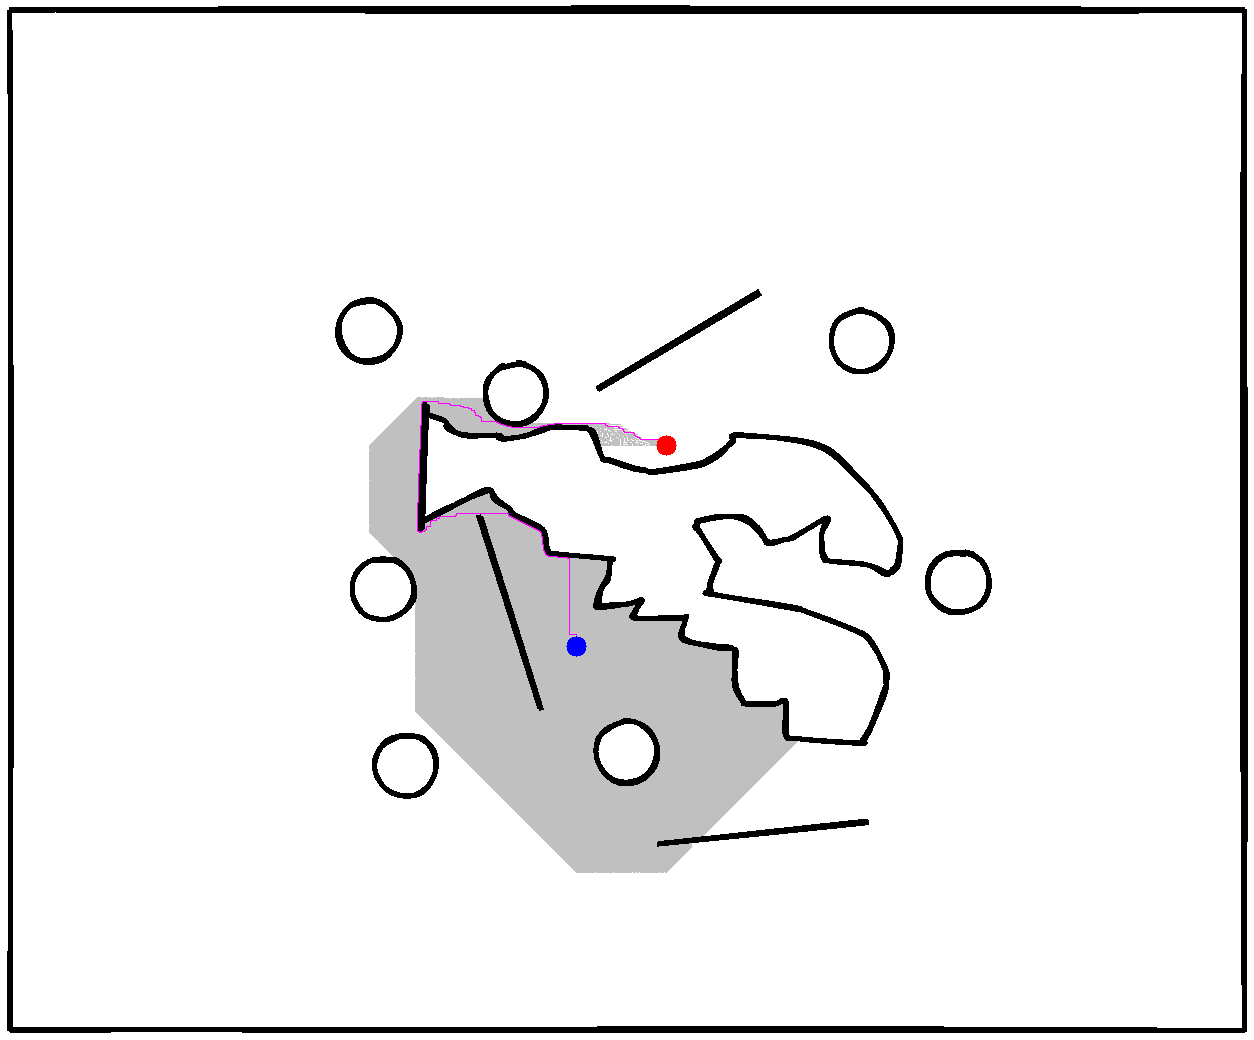
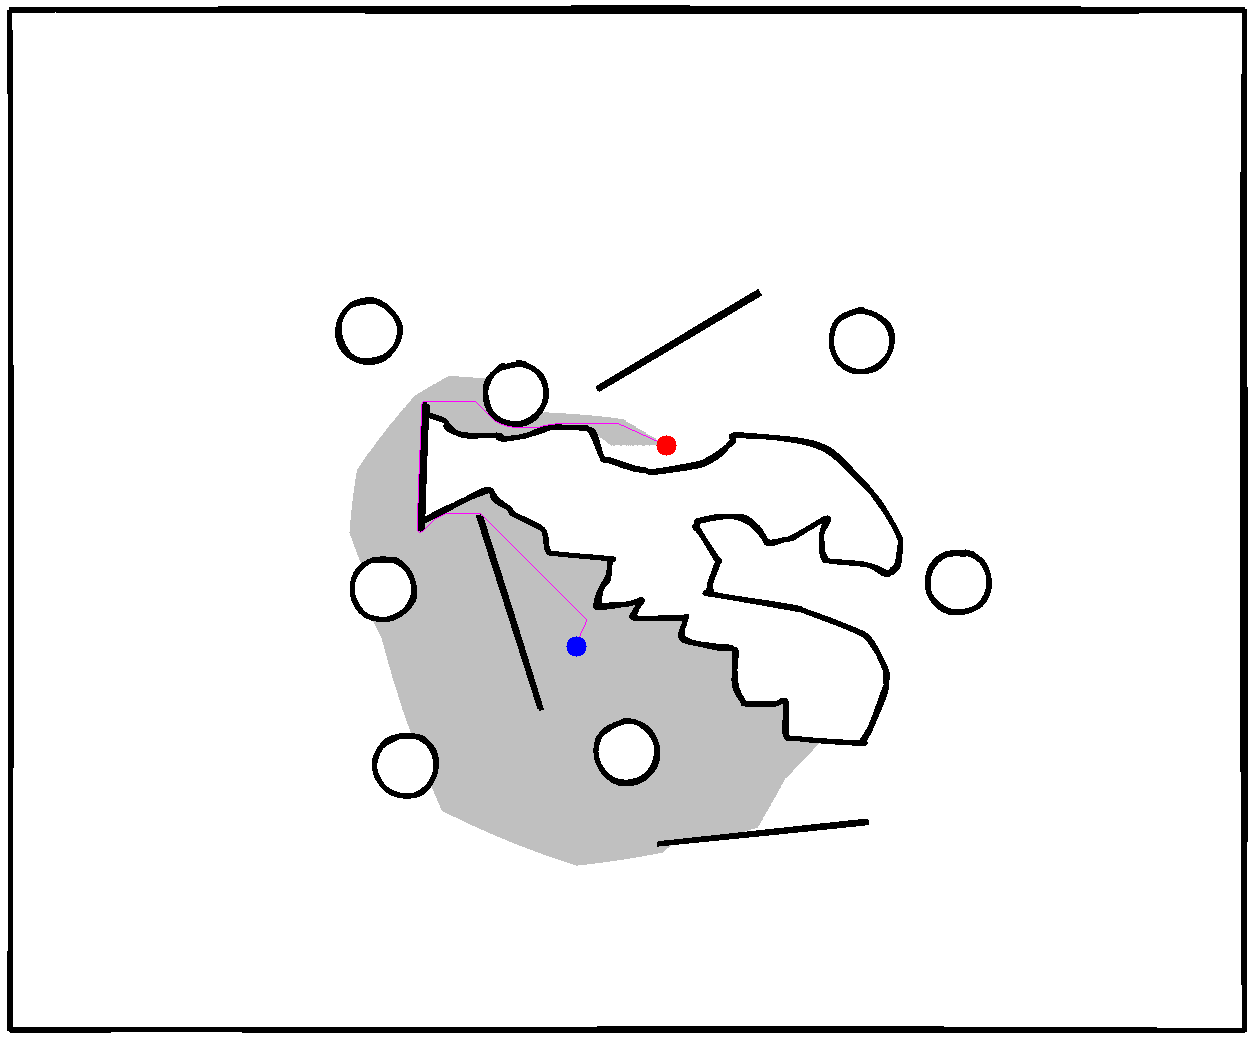
Generate the images

diff --git a/src/main/java/com/efim/astar/algo/AStar.java b/src/main/java/com/efim/astar/algo/AStar.java
@@ -14,7 +14,8 @@ public class AStar implements SearchAlgorithm{
     }
 
     private static int[][] diffs = new int[][]{
-            {0, 1}, {0, -1}, {1, 0}, {-1, 0}
+            {0, 1}, {0, -1}, {1, 0}, {-1, 0},
+            {1,1}, {1,-1}, {-1,1}, {-1,-1}
     };
 
     @Override
@@ -26,14 +27,14 @@ public class AStar implements SearchAlgorithm{
         var I = area.length;
         var J = area[0].length;
 
-        var frontier = new PriorityQueue<>(Comparator.comparingInt(FrontierNode::weight));
-        var minDistances = new HashMap<Point, Integer>();
+        var frontier = new PriorityQueue<>(Comparator.comparingDouble(FrontierNode::weight));
+        var minDistances = new HashMap<Point, Double>();
         var backlinks = new HashMap<Point, Point>();
         var wasInFrontier = new boolean[I][J];
         var found = false;
 
         frontier.add(new FrontierNode(0, problem.start()));
-        minDistances.put(problem.start(), 0);
+        minDistances.put(problem.start(), 0.0);
         wasInFrontier[problem.start().i()][problem.start().j()] = true;
         while (!frontier.isEmpty()) {
             var current = frontier.remove().point;
@@ -56,7 +57,7 @@ public class AStar implements SearchAlgorithm{
                 }
 
                 // Okay, now let's add this to the frontier
-                var adjDist = minDistances.get(current) + 1;
+                var adjDist = minDistances.get(current) + Math.sqrt(diff[0] * diff[0] + diff[1] * diff[1]);
                 minDistances.put(adjPoint, adjDist);
                 backlinks.put(adjPoint, current);
                 var adjWeight = adjDist + heuristicWeight * heuristic(adjPoint, problem.goal());
@@ -77,12 +78,12 @@ public class AStar implements SearchAlgorithm{
         return new SearchSolution(path, expanded);
     }
 
-    private int heuristic(Point current, Point goal) {
-        return current.manhattanTo(goal);
+    private double heuristic(Point current, Point goal) {
+        return current.euclidianTo(goal);
     }
 
     private record FrontierNode (
-            int weight,
+            double weight,
             Point point
     ) {
     }

diff --git a/src/main/java/com/efim/astar/visual/Main.java b/src/main/java/com/efim/astar/visual/Main.java
@@ -3,23 +3,27 @@ package com.efim.astar.visual;
 import com.efim.astar.algo.AStar;
 
 import java.io.File;
+import java.util.List;
 import java.util.concurrent.TimeUnit;
 
 public class Main {
     public static void main(String[] args) {
         var filename = "astar-1";
+        var weights = List.of(0, 1, 2, 10);
 
         var input = new File("src/main/resources/%s.png".formatted(filename));
-        var output = new File("src/main/resources/%s-solution-w100.png".formatted(filename));
-
-        var start = System.nanoTime();
         var problem = new ProblemGeneratorFromPng().generate(input);
-        var solution = new AStar(100).solve(problem);
-        new SolutionVisualiserToPng().visualise(output, problem, solution);
 
-        System.out.println("Finished in %d ms. Result: %s".formatted(
-                TimeUnit.NANOSECONDS.toMillis(System.nanoTime() - start),
-                output.toURI()
-        ));
+        for (Integer weight : weights) {
+            var start = System.nanoTime();
+            var output = new File("src/main/resources/%s-solution-w%d.png".formatted(filename, weight));
+            var solution = new AStar(weight).solve(problem);
+            new SolutionVisualiserToPng().visualise(output, problem, solution);
+            System.out.println("Weight: %d. Finished in %d ms. Result: %s".formatted(
+                    weight,
+                    TimeUnit.NANOSECONDS.toMillis(System.nanoTime() - start),
+                    output.toURI()
+            ));
+        }
     }
 }

diff --git a/src/main/java/com/efim/astar/algo/Point.java b/src/main/java/com/efim/astar/algo/Point.java
@@ -4,8 +4,8 @@ public record Point(
         int i,
         int j) {
 
-    public int manhattanTo(Point other) {
-        return Math.abs(i - other.i) + Math.abs(j - other.j);
+    public double euclidianTo(Point other) {
+        return Math.sqrt((i - other.i) * (i - other.i) + (j - other.j) * (j - other.j));
     }
 
     public boolean inEuclideanVicinity(Point other, int epsilon) {
